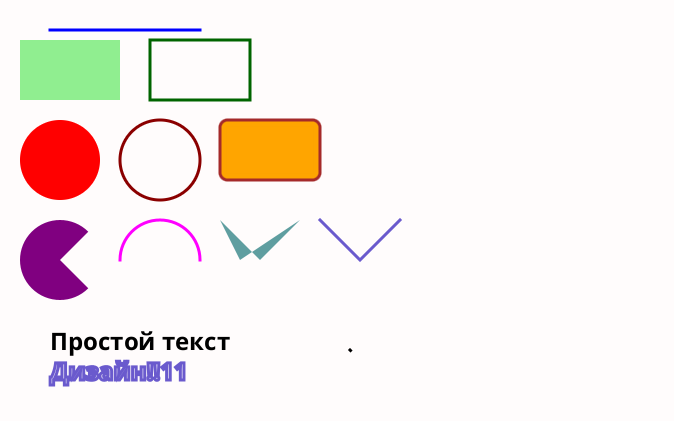
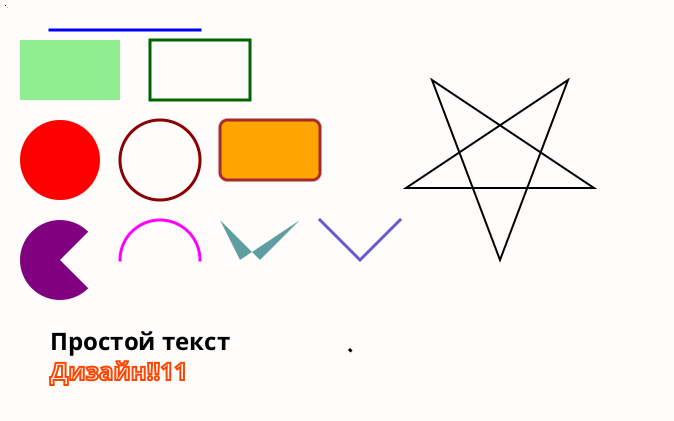
.

Changed region(s): [[0.592, 0.1853, 0.9036, 0.6176], [0.0623, 0.8337, 0.2804, 0.9264], [0.7789, 0.1853, 0.8412, 0.3088]]

diff --git a/examples/java/javafx_canvas/src/main/java/lab/javafx_canvas/MainWindowController.java b/examples/java/javafx_canvas/src/main/java/lab/javafx_canvas/MainWindowController.java
@@ -15,6 +15,7 @@ import javafx.event.ActionEvent;
 import javafx.scene.SnapshotParameters;
 import javafx.scene.canvas.Canvas;
 import javafx.scene.canvas.GraphicsContext;
+import javafx.scene.image.PixelWriter;
 import javafx.scene.image.WritableImage;
 import javafx.scene.input.MouseEvent;
 import javafx.scene.paint.Color;
@@ -113,11 +114,29 @@ public class MainWindowController {
         gc.setStroke(Color.SLATEBLUE);
         gc.strokePolyline(xLine, yLine, xLine.length);
 
+        // Замкнутый контур: 4 сегмента линий + соединение последней точки и первой
+        gc.setStroke(Color.BLACK);
+        gc.setLineWidth(2);
+        double[] xPoints = { 150+350, 82+350, 244+350, 56+350, 218+350 };
+        double[] yPoints = { 260, 80,  155+33, 155+33, 80 };
+        gc.strokePolygon(xPoints, yPoints, xPoints.length);
+
         // Текст
         gc.setFont(Font.font("Arial", FontWeight.BOLD, 24));
-        gc.setFill(Color.BLACK);
+        gc.setFill(Color.BLACK); gc.setStroke(Color.ORANGERED);
         gc.fillText("Простой текст", 50, 350);           // заполняемый текст
         gc.strokeText("Дизайн!!11", 50, 380);         // контур текста
+
+
+        // Запись отдельных пикселей
+        PixelWriter pw = gc.getPixelWriter();
+        // закрасить отдельный пиксель чёрным
+        pw.setColor(5, 5, Color.BLACK);              // setColor(int x, int y, Color c)
+        // или задав ARGB-значение напрямую
+        int argb = 0x80FF0000; // полупрозрачный красный
+        pw.setArgb(7, 7, argb);                      // setArgb(int x, int y, int argb)
+
+
 
 
         // Сохранение в файл (требует доп. библиотек, см. раздел подключения)
@@ -134,6 +153,8 @@ public class MainWindowController {
         } catch (IOException e) {
             e.printStackTrace();
         }
+
+
     }
 
 
